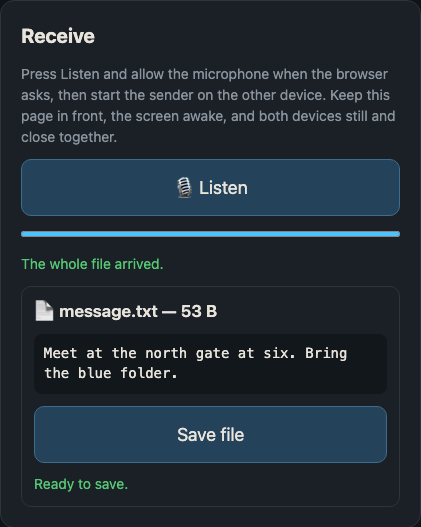
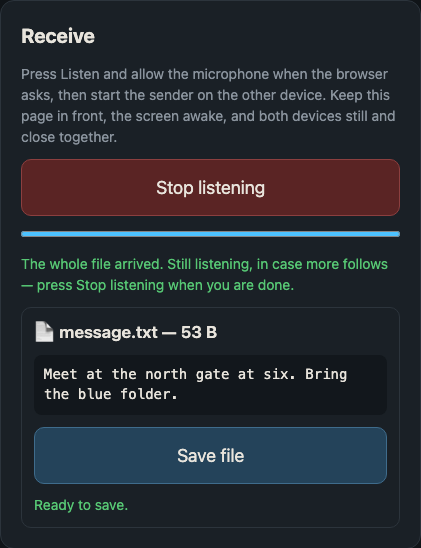
a message sent after a file was never heard
Reported from a real pair of devices: file transfer worked both ways, a
typed message did not. Reproduced by driving the page with the actual
sequence - receive a file, press Listen, send a message - and watching
the receiver: it flipped listening back off six seconds in and went back
to 'The whole file arrived.'

onComplete called stopListen(). A sender plays until a person stops it,
so the transfer that just finished is still in the air; pressing Listen
for the next thing immediately re-received the previous one and switched
the microphone off again. The message never had a chance. The receiver
now stays open - a repeat of what it already holds costs nothing, since
it knows it has that manifest - and anything new is caught. Proven on
the failing sequence: message.txt now arrives with its text shown.

Also: rx.locked was never set. The guard that keeps an arrived-but-still
-locked file across a Listen press went in with 0.9.2, but the edit that
set the flag was lost when a later assertion in the same script aborted
the write, so mistyping a passphrase and pressing Listen still destroyed
the bytes. Both are now held by tests that read the source, because this
is exactly the kind of fix that silently stops existing.

Changed region(s): [[0.0309, 0.1214, 0.9572, 0.7287], [0.0618, 0.759, 0.9264, 0.9412], [0.0618, 0.0304, 0.247, 0.0911]]

diff --git a/test/regression-protocol.test.js b/test/regression-protocol.test.js
@@ -160,3 +160,32 @@ test('a payload that expands past the ceiling is refused, not allocated', async 
   const round = await Air.gunzip(await Air.gzip(new TextEncoder().encode('hello')));
   assert.strictEqual(new TextDecoder().decode(round), 'hello');
 });
+
+test('a receiver that has finished one transfer still receives the next', async () => {
+  // The page keeps listening after a completed transfer, so the receiver has
+  // to accept a genuinely different file next - a typed message after a
+  // file, which is the sequence a person actually performs.
+  const r = ch.rng(2468);
+  const fileBytes = new Uint8Array(1200).map(() => r.int(256));
+  const msg = new TextEncoder().encode('Meet at the north gate at six.');
+  const rx = new Air.Receiver(48000);
+
+  const a = new Air.Sender(await Air.prepare(fileBytes, 'notes.bin'), { session: 21, papr: false });
+  let n = 0;
+  while (!rx.result && n < 30) { rx.push(new Float32Array(600)); rx.push(a.nextFrame()); n++; }
+  assert.ok(rx.result, 'the file never arrived');
+  const first = await rx.file();
+  assert.strictEqual(Buffer.compare(Buffer.from(first.bytes), Buffer.from(fileBytes)), 0);
+
+  // the same receiver, no reset, now hears a different transfer
+  const b = new Air.Sender(await Air.prepare(msg, 'message.txt'), { session: 99, papr: false });
+  let got = null;
+  for (let i = 0; i < 30 && !got; i++) {
+    rx.push(new Float32Array(600));
+    rx.push(b.nextFrame());
+    const f = await rx.file();
+    if (f && f.name === 'message.txt') got = f;
+  }
+  assert.ok(got, 'the message never arrived after the file');
+  assert.strictEqual(new TextDecoder().decode(got.bytes), 'Meet at the north gate at six.');
+});

diff --git a/test/regression-page.test.js b/test/regression-page.test.js
@@ -33,3 +33,24 @@ test('the page can start a second transfer: it resets the worker', () => {
   assert.ok(/type:\s*'reset'/.test(src),
     'earshot.js never posts {type:"reset"}, so a second listen reuses the finished receiver');
 });
+
+test('a completed transfer does not switch the microphone off', () => {
+  // A sender plays until a person stops it, so what just arrived is still in
+  // the air. Stopping the microphone on completion meant the next thing sent
+  // - a message after a file - was never heard: pressing Listen received the
+  // previous transfer again and stopped the microphone again, on a loop.
+  const src = fs.readFileSync(path.join(__dirname, '..', 'earshot.js'), 'utf8');
+  const body = src.slice(src.indexOf('function onComplete'), src.indexOf('function onFailed'));
+  assert.ok(body.length > 100, 'could not find onComplete');
+  assert.ok(!/stopListen\(\)/.test(body), 'onComplete stops listening, so nothing sent after it can arrive');
+  assert.ok(/Still listening/.test(body), 'onComplete should say the microphone is still open');
+});
+
+test('a locked file is actually marked locked, or Listen will throw it away', () => {
+  // rx.locked guards a file that arrived but is still sealed. If nothing
+  // ever sets it, the guard in startListen is dead code and mistyping a
+  // passphrase then pressing Listen destroys the bytes.
+  const src = fs.readFileSync(path.join(__dirname, '..', 'earshot.js'), 'utf8');
+  assert.ok(/rx\.locked = true/.test(src), 'nothing ever sets rx.locked, so the guard never fires');
+  assert.ok(/rx\.locked && !rx\.fileBytes/.test(src), 'startListen should keep an arrived-but-locked file');
+});

diff --git a/earshot.js b/earshot.js
@@ -532,15 +532,21 @@
     rx.complete = m;
     ui.result.classList.add('show');
     ui.resultName.textContent = `📄 ${m.nameHidden ? 'Encrypted file' : (m.name || 'Received file')}`;
-    say(ui.rxStatus, 'The whole file arrived.', 'ok');
     if (m.needsPassphrase) {
+      rx.locked = true;                                // arrived, still sealed
       ui.passRow.style.display = '';
       ui.resultStatus.textContent = m.nameHidden
         ? 'The sender set a passphrase, and the file name is inside too. Type it to open the file.'
         : 'The sender set a passphrase. Type it to open the file.';
       ui.rxPass.focus();
     } else rx.worker.postMessage({ type: 'file' });
-    stopListen();
+    // Keep listening. A sender plays until a person stops it, so what just
+    // arrived is usually still in the air. Switching the microphone off here
+    // meant the next thing sent - a message after a file - was never heard:
+    // pressing Listen again received the previous transfer one more time and
+    // switched the microphone off again, over and over. A repeat of what we
+    // already hold costs nothing, and anything new is caught.
+    say(ui.rxStatus, 'The whole file arrived. Still listening, in case more follows — press Stop listening when you are done.', 'ok');
   }
 
   // The whole file arrived and its CRC-32 says it is wrong. air.js threw the

diff --git a/docs/GUIDE.md b/docs/GUIDE.md
@@ -110,9 +110,12 @@ still gets it.
    `61 % of the way there, but nothing heard for 14 s — is the sender still
    playing?`
 
-5. When the file is complete, the status says `The whole file arrived.`, the
-   result box names the file and its real size, and listening stops by
-   itself.
+5. When the file is complete, the status says `The whole file arrived. Still
+   listening, in case more follows`, and the result box names the file and its
+   real size. Listening does **not** stop: a sender plays until someone stops
+   it, so what just arrived is usually still in the air, and staying open is
+   what lets a second thing — a message after a file — be heard. Press
+   **Stop listening** when you are done.
 6. Press **Save file**. On a phone that offers a share sheet, that is what
    opens; otherwise the file downloads and the line underneath says where it
    went.
@@ -160,7 +163,7 @@ If the sender set a passphrase, the result box asks for it before
    receiver that missed some. Past the estimate the bar stops measuring and
    the status reads `Still sending — keep going until the other device says
    it has the file, then press Stop sending.` When the other device says
-   `The whole file arrived.`, press **Stop sending**; the status then says
+   `The whole file arrived.`, press **Stop sending** here; the status then says
    `Stopped after 41 s of sound.`
 
    ![Sending](screenshots/product/sending.png)
@@ -296,6 +299,16 @@ measures whether this device can run audio at 48 kHz, whether its microphone
 hears the whole band, the room's echo, the speaker's loudness headroom, and
 a forty-minute soak of the receive pipeline.
 
+## Sending a second thing
+
+The two devices can keep going. The receiving one stays on after a file
+arrives, so once the sender has stopped, type a message on it and press
+**Send message**, or pick another file — the receiving page will show
+whatever comes next.
+
+One thing to know: the receiving page holds only the last thing that
+arrived. Press **Save file** before sending the next one.
+
 ## When it does not work
 
 ![Receiving through noise](screenshots/product/receiving-noisy.png)
@@ -323,6 +336,7 @@ a forty-minute soak of the receive pipeline.
 | `A message is sent without a passphrase.` | **Send message** was pressed with something in the passphrase box | Clear the box, or save the text as a file and use **Start sending** |
 | `Over 2 MB — sound is too slow for a file that big. Send something smaller, or zip it first.` | The file is over the limit | Send something smaller, or zip it first |
 | `transfer not complete — wait until the whole file has arrived.` | **Unlock** was pressed before the transfer finished | Wait for `The whole file arrived.` |
+| A message sent after a file never appears | Older versions stopped listening when a file arrived, so the sender's repeats of the *first* transfer were all the receiver ever heard | Reload both pages; the receiver now stays on after a file, and the sender should be stopped before the next thing is sent |
 | **Save file** on a phone downloads instead of sharing | The share sheet was dismissed, or this browser cannot share files | It is the same file; look in the browser's downloads |
 
 When a transfer fails in a way this table does not cover, the lab page can

diff --git a/CHANGELOG.md b/CHANGELOG.md
@@ -15,6 +15,22 @@ between two physical devices. Everything below it is gated and green.
   text** to send a typed message (shown on the receiver's screen), and a
   **Speed and limits** table computed from the frame format.
 
+## 0.9.4 — 2026-08-29
+
+Both directions now carry files. Sending a **message** after a file did not
+work, and the reason was on the receiving side.
+
+- **A completed transfer no longer switches the microphone off.** A sender
+  plays until a person stops it, so what just arrived is still in the air.
+  Stopping on completion meant the next thing sent was never heard: pressing
+  Listen received the *previous* transfer one more time and stopped the
+  microphone again, on a loop. The receiver now stays open, ignores repeats
+  of what it already holds, and picks up whatever comes next.
+- A file that arrived but is still waiting for its passphrase is now really
+  marked as such. The guard that keeps it across a Listen press was written
+  in 0.9.2 but nothing ever set the flag, so mistyping a passphrase and
+  pressing Listen still destroyed the bytes.
+
 ## 0.9.3 — 2026-08-29
 
 First real transfer through the air with the OFDM engine: a Mac sent a file
